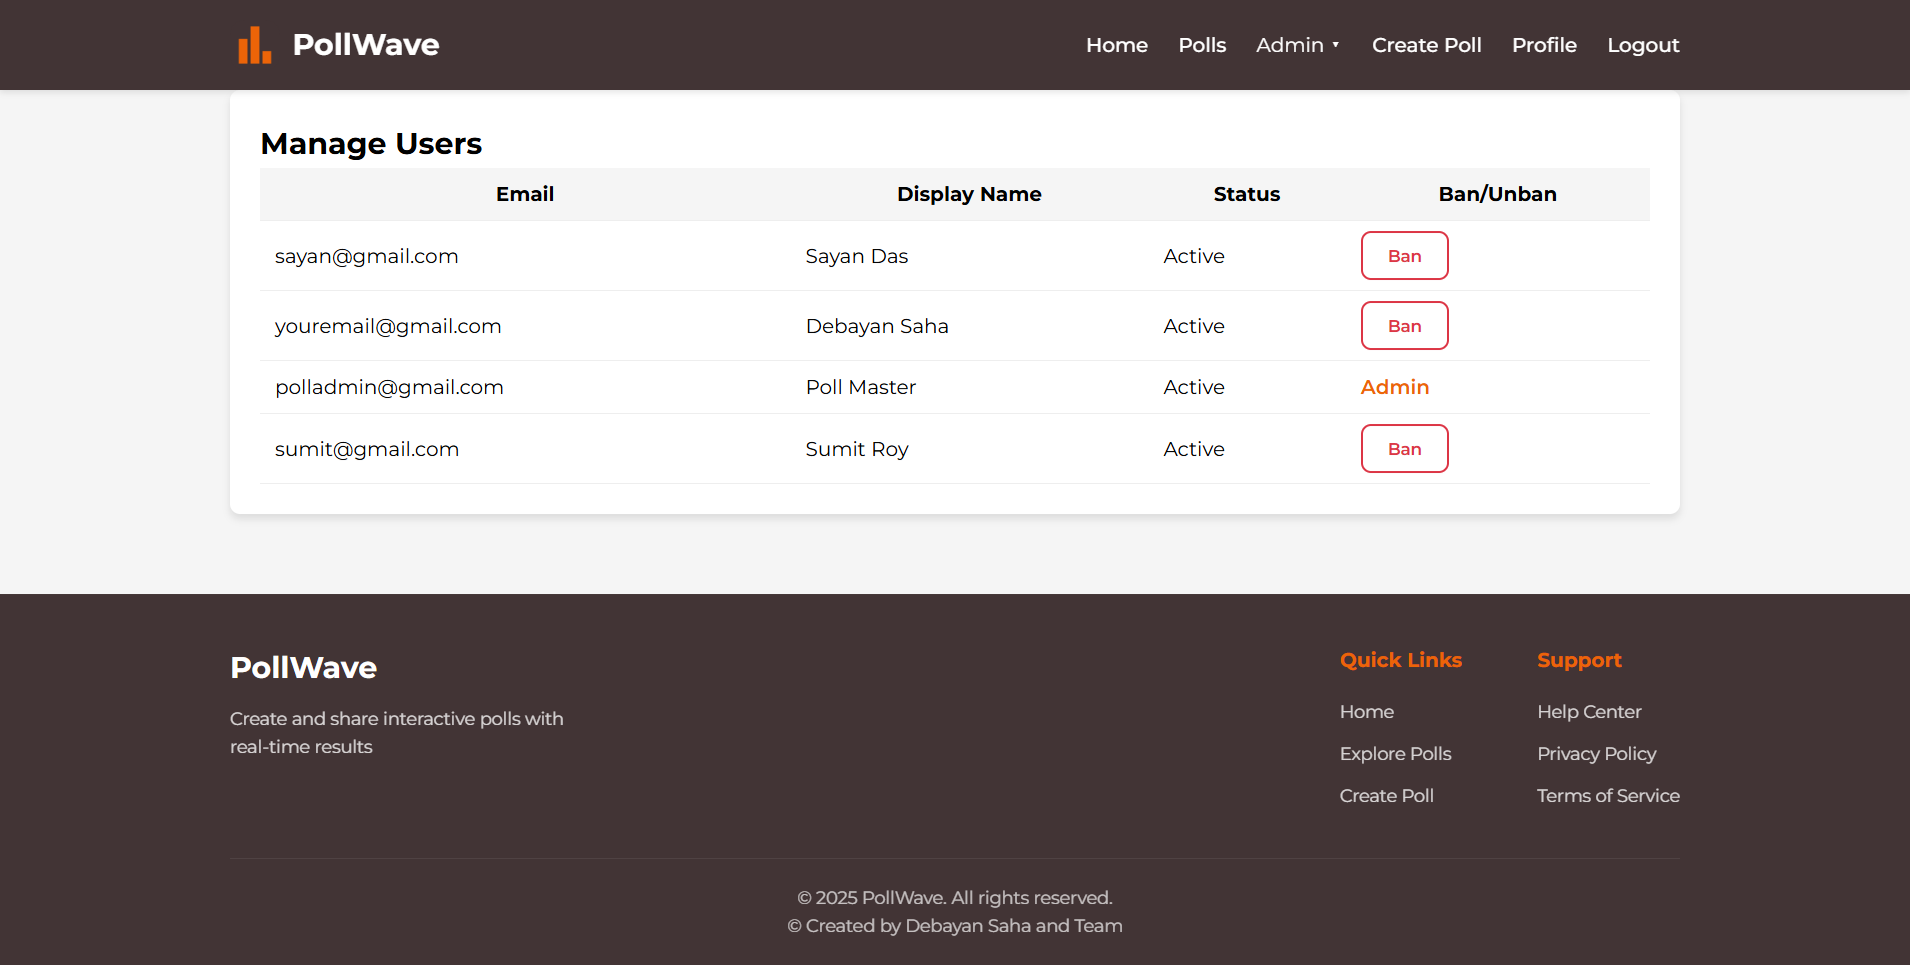
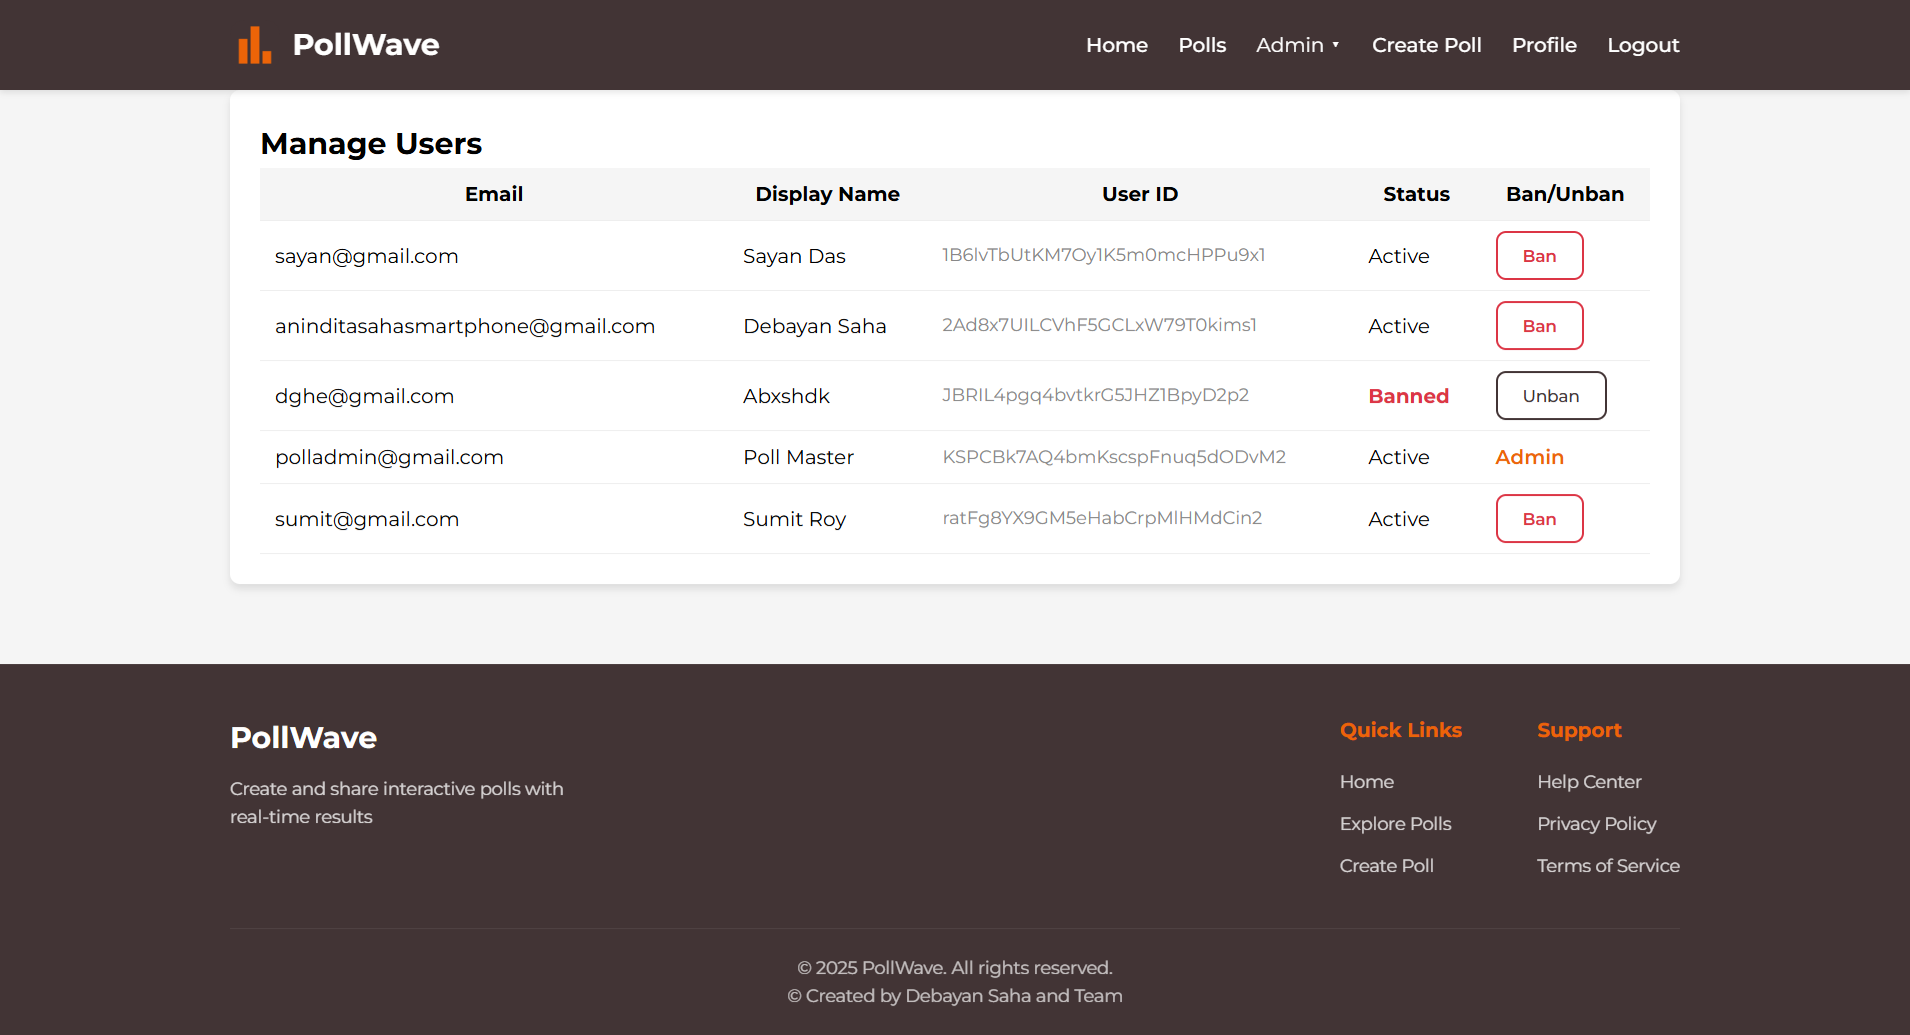
feat: Enhance admin polls and users components with additional user information and improved table styles

diff --git a/src/app/components/admin/admin-polls.component.ts b/src/app/components/admin/admin-polls.component.ts
@@ -26,6 +26,8 @@ import { Report } from '../../models/report.model';
                 <th>Status</th>
                 <th>Votes</th>
                 <th>Created By</th>
+                <th>Creator Email</th>
+                <th>Creator UID</th>
                 <th>Created At</th>
                 <th>Reports</th>
                 <th>Actions</th>
@@ -33,7 +35,7 @@ import { Report } from '../../models/report.model';
             </thead>
             <tbody>
               <tr *ngFor="let poll of polls">
-                <td>{{ poll.question }}</td>
+                <td >{{ poll.question }}</td>
                 <td>{{ poll.category }}</td>
                 <td>
                   <span [class.active]="poll.isActive" [class.closed]="!poll.isActive">
@@ -42,6 +44,8 @@ import { Report } from '../../models/report.model';
                 </td>
                 <td>{{ poll.totalVotes || 0 }}</td>
                 <td>{{ getUserName(poll.createdBy) }}</td>
+                <td>{{ getUserEmail(poll.createdBy) }}</td>
+                <td style="font-size: 0.9em; color: #888;">{{ poll.createdBy }}</td>
                 <td>{{ poll.createdAt | date:'medium' }}</td>
                 <td>
                   <button *ngIf="reports[poll.id!]?.length" class="btn btn-outline danger " (click)="viewReports(poll)">
@@ -70,26 +74,26 @@ import { Report } from '../../models/report.model';
             </tbody>
           </table>
         </div>
-          
       </div>
     </div>
-    <!-- Report Modal -->
-<div *ngIf="showReportModal" class="modal-overlay">
-  <div class="modal-content">
-    <button (click)="closeReportModal()" class="modal-close">&times;</button>
-    <h2 class="modal-title">Reports for: {{ selectedPollQuestion }}</h2>
-    <div *ngIf="selectedReportList.length === 0" class="text-gray-500">No reports for this poll.</div>
-    <div *ngFor="let report of selectedReportList" class="mb-4 border-b pb-2">
-      <div><strong>By:</strong> {{ report.reporter }}</div>
-      <div><strong>UID:</strong> {{ report.reporterUid }}</div>
-      <div><strong>Reason:</strong> {{ report.reason }}</div>
-      <div><strong>Date:</strong> {{ report.date }}</div>
+    <div *ngIf="showReportModal" class="modal-overlay">
+      <div class="modal-content">
+        <button (click)="closeReportModal()" class="modal-close">&times;</button>
+        <h2 class="modal-title">Reports for: {{ selectedPollQuestion }}</h2>
+        <div *ngIf="selectedReportList.length === 0" class="text-gray-500">No reports for this poll.</div>
+        <div *ngFor="let report of selectedReportList" class="mb-4 border-b pb-2">
+          <div><strong>By:</strong> {{ report.reporter }}</div>
+          <div><strong>UID:</strong> {{ report.reporterUid }}</div>
+          <div><strong>Reason:</strong> {{ report.reason }}</div>
+          <div><strong>Date:</strong> {{ report.date }}</div>
+        </div>
+        <div class="flex justify-end">
+          <button class="btn btn-outline" (click)="closeReportModal()">Close</button>
+        </div>
+      </div>
     </div>
-    <div class="flex justify-end">
-      <button class="btn btn-outline" (click)="closeReportModal()">Close</button>
-    </div>
-  </div>
-</div>
+
+
   `,
   styles: [`
     .active { color: var(--success-color); font-weight: bold; }
@@ -146,6 +150,11 @@ export class AdminPollsComponent implements OnInit {
     return user?.displayName || 'Unknown';
   }
 
+  getUserEmail(uid: string): string {
+    const user = this.users.find(u => u.uid === uid);
+    return user?.email || 'Unknown';
+  }
+
   loadPolls() {
     this.isLoading = true;
     this.pollService.getPolls().subscribe({
@@ -186,27 +195,27 @@ export class AdminPollsComponent implements OnInit {
   }
 
   viewReports(poll: Poll) {
-  const reportList = (this.reports[poll.id!] || []).map(r => {
-    let date: Date;
-    const createdAt: any = r.createdAt;
-    if (createdAt instanceof Date) {
-      date = createdAt;
-    } else if (createdAt && typeof createdAt.toDate === 'function') {
-      date = createdAt.toDate();
-    } else {
-      date = new Date(createdAt);
-    }
-    const reporterUser = this.users.find(u => u.uid === r.reportedBy);
-    return {
-      reason: r.reason,
-      date: date.toLocaleString(),
-      reporter: reporterUser?.displayName || 'Unknown',
-      reporterUid: r.reportedBy
-    };
-  });
-  this.selectedReportList = reportList;
-  this.selectedPollQuestion = poll.question;
-  this.showReportModal = true;
+    const reportList = (this.reports[poll.id!] || []).map(r => {
+      let date: Date;
+      const createdAt: any = r.createdAt;
+      if (createdAt instanceof Date) {
+        date = createdAt;
+      } else if (createdAt && typeof createdAt.toDate === 'function') {
+        date = createdAt.toDate();
+      } else {
+        date = new Date(createdAt);
+      }
+      const reporterUser = this.users.find(u => u.uid === r.reportedBy);
+      return {
+        reason: r.reason,
+        date: date.toLocaleString(),
+        reporter: reporterUser?.displayName || 'Unknown',
+        reporterUid: r.reportedBy
+      };
+    });
+    this.selectedReportList = reportList;
+    this.selectedPollQuestion = poll.question;
+    this.showReportModal = true;
   }
   closeReportModal() {
     this.showReportModal = false;

diff --git a/src/global_styles.css b/src/global_styles.css
@@ -13,12 +13,12 @@
 }
 
 .error-message {
-  color: #DC3545;           /* Bright red */
+  color: #DC3545;          
   font-size: 1rem;
   font-weight: 600;
   margin-top: 5px;
   margin-bottom: 5px;
-  background: #ffeaea;      /* Light red background */
+  background: #ffeaea;     
   border-left: 4px solid #DC3545;
   padding: 8px 12px;
   border-radius: 4px;
@@ -181,10 +181,74 @@ body {
 }
 
 .table {
-  min-width: 900px; 
+  width: 100%;
+  border-collapse: collapse;
+  table-layout: auto; 
+  background: #fff;
 }
 
-    .modal-overlay {
+.table th, .table td {
+  padding: 12px 10px;
+  border-bottom: 1px solid #eee;
+  text-align: left;
+  vertical-align: middle;
+  white-space: nowrap;
+}
+
+.table th {
+  background: #f5f5f5;
+  font-weight: 600;
+}
+
+.table tbody tr:nth-child(even) {
+  background: #fafafa;
+}
+
+@media (max-width: 900px) {
+  .table th, .table td {
+    padding: 10px 6px;
+    font-size: 14px;
+  }
+}
+
+@media (max-width: 700px) {
+  .table, .table thead, .table tbody, .table th, .table td, .table tr {
+    display: block;
+    width: 100%;
+  }
+  .table thead {
+    display: none;
+  }
+  .table tr {
+    margin-bottom: 18px;
+    border-radius: 8px;
+    box-shadow: 0 2px 8px rgba(0,0,0,0.04);
+    background: #fff;
+    padding: 10px 0;
+  }
+  .table td {
+    border: none;
+    position: relative;
+    padding-left: 50%;
+    min-height: 32px;
+    white-space: normal;
+    text-overflow: initial;
+    overflow: visible;
+  }
+  .table td:before {
+    position: absolute;
+    top: 12px;
+    left: 12px;
+    width: 45%;
+    white-space: nowrap;
+    font-weight: 600;
+    color: #888;
+    content: attr(data-label);
+  }
+}
+
+/* Modal styles */
+.modal-overlay {
   position: fixed;
   inset: 0;
   background: rgba(0,0,0,0.45);
@@ -264,3 +328,4 @@ body {
     width: 100%;
   }
 }
+

diff --git a/src/app/components/admin/admin-users.component.ts b/src/app/components/admin/admin-users.component.ts
@@ -17,6 +17,7 @@ import { User } from '../../models/user.model';
             <tr>
               <th>Email</th>
               <th>Display Name</th>
+              <th>User ID</th> 
               <th>Status</th>
               <th>Ban/Unban</th>
             </tr>
@@ -25,6 +26,7 @@ import { User } from '../../models/user.model';
             <tr *ngFor="let user of users">
               <td>{{ user.email }}</td>
               <td>{{ user.displayName }}</td>
+              <td style="font-size: 0.9em; color: #888;">{{ user.uid }}</td> 
               <td>
                 <span [class.banned]="user.banned"> 
                   {{ user.banned ? 'Banned' : 'Active' }}
@@ -47,7 +49,6 @@ import { User } from '../../models/user.model';
           </tbody>
         </table>
         </div>
-
       </div>
     </div>
   `,
